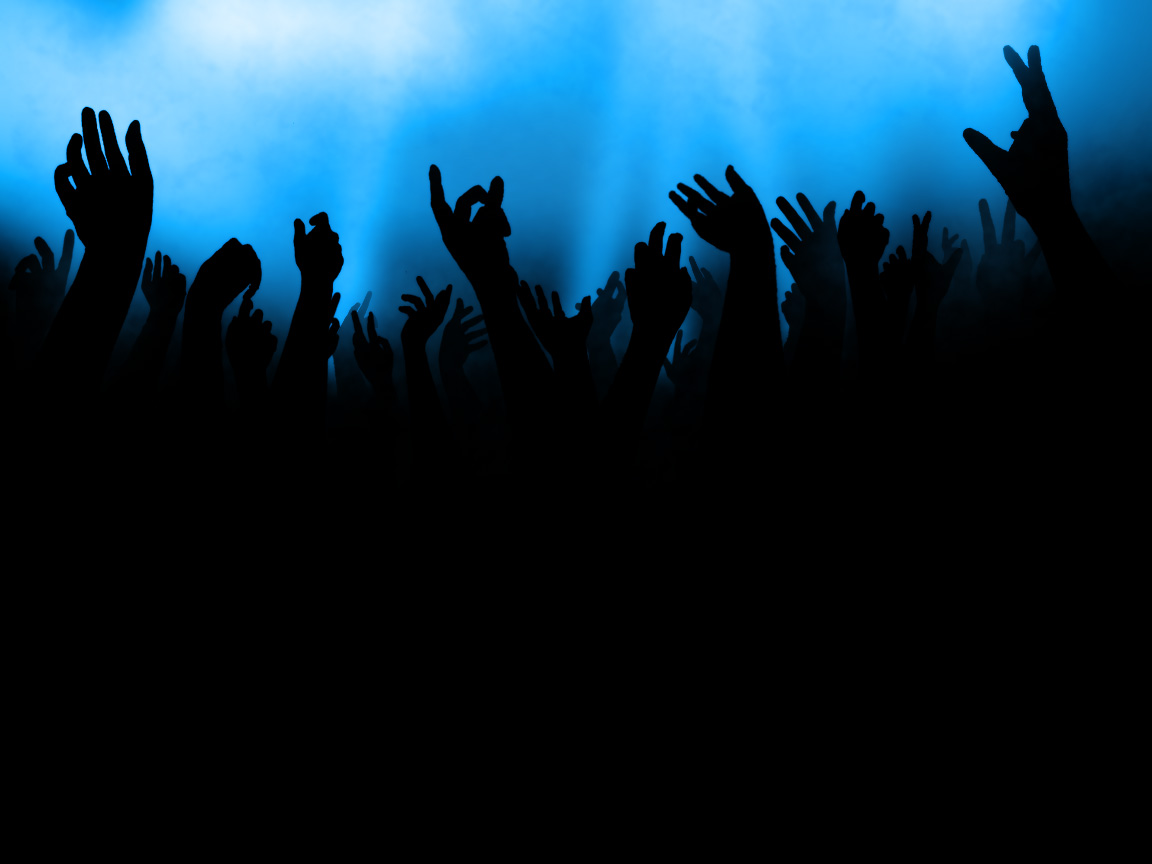
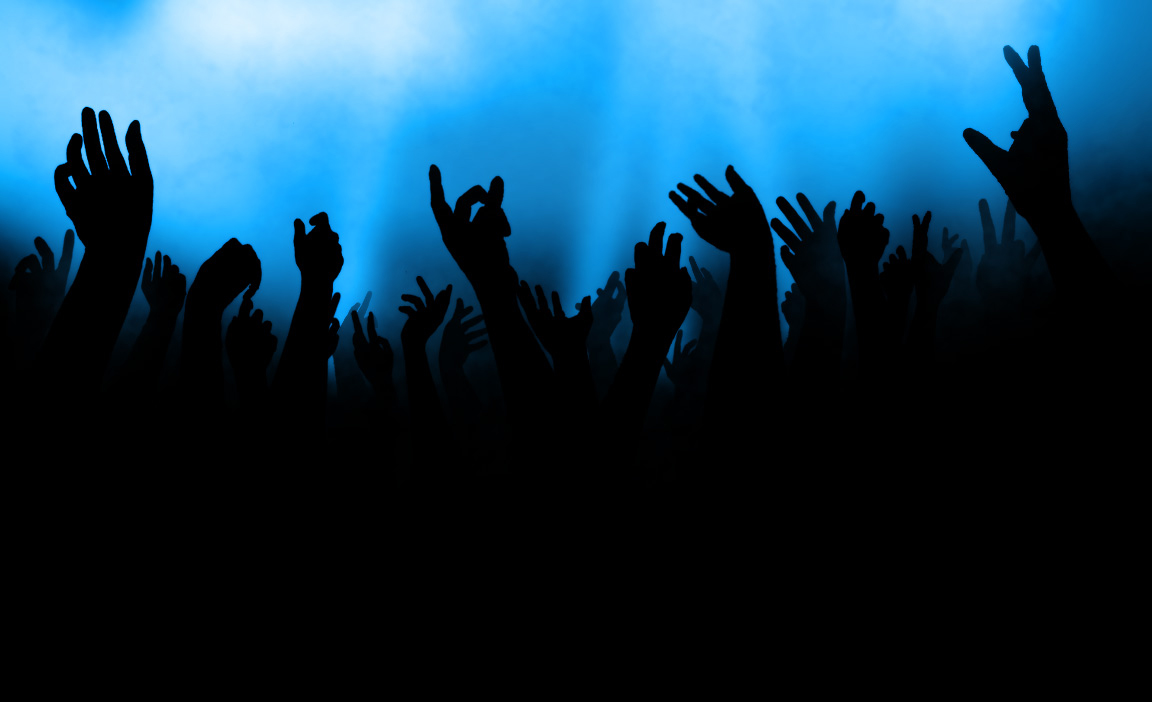
optimizes background image sizes

Changed region(s): [[0.0, 0.0299, 1.0, 0.5684]]

diff --git a/css/index.css b/css/index.css
@@ -81,11 +81,11 @@ p {
 }
 
 #title {
-  background-image: url("../img/goldengate3.jpg");
+  background-image: url("../img/goldengate3-reduced.jpg");
    background-attachment: fixed;  
 }
 #slide1:before {
-  background-image: url("../img/workstation2.jpg");
+  background-image: url("../img/workstation2-reduced.jpg");
   transform: translateZ(-1px) scale(2);
   z-index:-1;
 }
@@ -94,16 +94,16 @@ p {
   background-attachment: fixed;
 }
 #slide3:before {
-  background-image: url("../img/writing.jpg");
+  background-image: url("../img/writing-reduced.jpg");
   transform: translateZ(-1px) scale(2);
   z-index:-1;
 }
 #slide4 {
-  background-image: url("../img/tree.jpg");
+  background-image: url("../img/tree-reduced.jpg");
   background-attachment: fixed;
 }
 #slide5:before {
-  background-image: url("../img/music2.jpg");
+  background-image: url("../img/music2-reduced.jpg");
   transform: translateZ(-1px) scale(2);
   z-index:-1;
 }

diff --git a/index.html b/index.html
@@ -17,9 +17,7 @@
 			<li><a href="#">About</a></li>
 			<li><a href="#">Projects</a></li>
 			<li><a href="#">Medium</a></li>
-			<li><a href="#">Twitter</a></li>
 			<li><a href="#">Soundcloud</a></li>
-			<li><a href="#">Instagram</a></li>
 			<li><a href="#">Contact</a></li>
 		</ul>
 	</header>
@@ -87,9 +85,16 @@
 		</div>
 	</div>
 
+	<div id="slide7" class="slide">
+		<div class="section group">
+			<h1>Contact</h1>
+		</div>
+		<div class="section group">
+		</div>
 
-	<footer>
-		<p>Design implemented with etc by Evan Simoni</p>
-	</footer>
-</body>
-</html>
+
+		<footer>
+			<p>Design implemented with etc by Evan Simoni</p>
+		</footer>
+	</body>
+	</html>

diff --git a/css/2cols.css b/css/2cols.css
@@ -39,7 +39,7 @@ GRID COLUMN SETUP
 
 /*  REMOVE MARGINS AS ALL GO FULL WIDTH AT 480 PIXELS */
 
-@media only screen and (max-width: 480px) {
+@media only screen and (max-width: 640px) {
   .col { 
     margin: 1% 0 1% 0%;
   }
@@ -59,7 +59,7 @@ GRID OF TWO
 
 /*  GO FULL WIDTH AT LESS THAN 480 PIXELS */
 
-@media only screen and (max-width: 480px) {
+@media only screen and (max-width: 640px) {
 	.span_2_of_2 {
 		width: 100%; 
 	}
